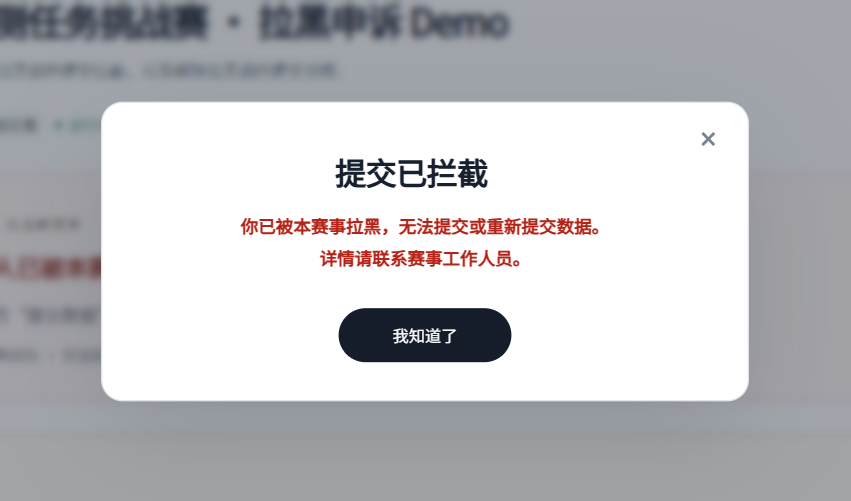
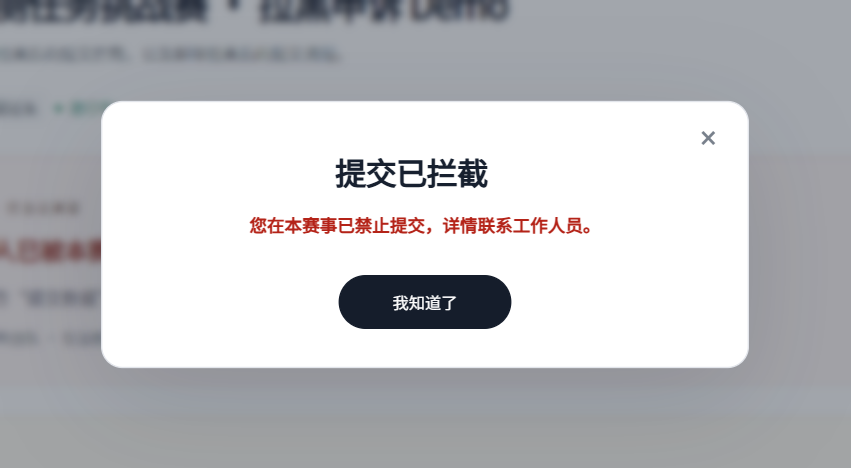
Update submission block warning copy

diff --git a/frontend/event-contact.js b/frontend/event-contact.js
@@ -42,10 +42,10 @@
     const registered=!!options.registered;
     return show('group','<div class="ec-dialog-heading"><span class="ec-status '+(registered?'ec-success':'')+'">'+(registered?'报名成功':'赛事交流群')+'</span><h2 id="ec-dialog-title">'+(registered?'加入赛事企业微信群':'扫码加入赛事交流群')+'</h2><p class="ec-event-name">'+E(title(c))+'</p><p class="ec-dialog-description">'+(registered?'请使用企业微信扫码入群，及时获取赛事通知与规则答疑。':'比赛期间可从赛事详情页随时找到本入口，扫码入群查看通知、参与交流。')+'</p></div><div class="ec-qr-block">'+qr()+'<p>使用企业微信扫码</p></div>'+(registered?'<p class="ec-after-register">报名已完成。入群后请按赛事要求继续完成组队；扫码状态不会由本 Demo 自动校验。</p>':'')+'<div class="ec-dialog-actions"><button type="button" class="button dark" '+(options.onContinue?'data-ec-continue':'data-event-contact-close')+'>'+E(options.continueLabel||(registered?'继续组队':'我知道了'))+'</button></div>',options);
   };
-  api.openSubmissionBlock=function(message){
-    return show('submission-block','<div class="ec-dialog-heading"><h2 id="ec-dialog-title">提交已拦截</h2><p class="ec-dialog-description ec-submission-warning">'+E(message||'你已被本赛事拉黑，无法提交或重新提交数据。')+'<br>详情请联系赛事工作人员。</p></div><div class="ec-dialog-actions"><button type="button" class="button dark" data-event-contact-close>我知道了</button></div>');
+  api.openSubmissionBlock=function(){
+    return show('submission-block','<div class="ec-dialog-heading"><h2 id="ec-dialog-title">提交已拦截</h2><p class="ec-dialog-description ec-submission-warning">您在本赛事已禁止提交，详情联系工作人员。</p></div><div class="ec-dialog-actions"><button type="button" class="button dark" data-event-contact-close>我知道了</button></div>');
   };
-  api.openAppeal=function(){return api.openSubmissionBlock('你已被本赛事拉黑，无法提交或重新提交数据。');};
+  api.openAppeal=api.openSubmissionBlock;
   window.EventContact=api;
   function resolve(id){
     const organizer=window.OrganizerDemoStore;

diff --git a/docs/submission-block/README.md b/docs/submission-block/README.md
@@ -8,7 +8,7 @@
 
 主办方示例在每位成员旁提供「拉黑个人／解除个人拉黑」，必须指定个人；旧团队标记不再参与资格判断，不自动转换为全员个人拉黑。模拟新提交、补正重提时按选中的个人重新校验，写入前仍需读取最新状态。
 
-被拉黑者点击「提交数据」直接显示「提交已拦截」。弹窗包含红色说明、右上角关闭按钮和「我知道了」。提示文案为「你已被本赛事拉黑，无法提交或重新提交数据。详情请联系赛事工作人员。」关闭后回到原页面。
+被拉黑者点击「提交数据」直接显示「提交已拦截」。弹窗包含红色说明、右上角关闭按钮和「我知道了」。提示文案为「您在本赛事已禁止提交，详情联系工作人员。」关闭后回到原页面。
 
 ![个人拉黑拦截弹窗 Demo 截图](personal-block-dialog.png)
 
